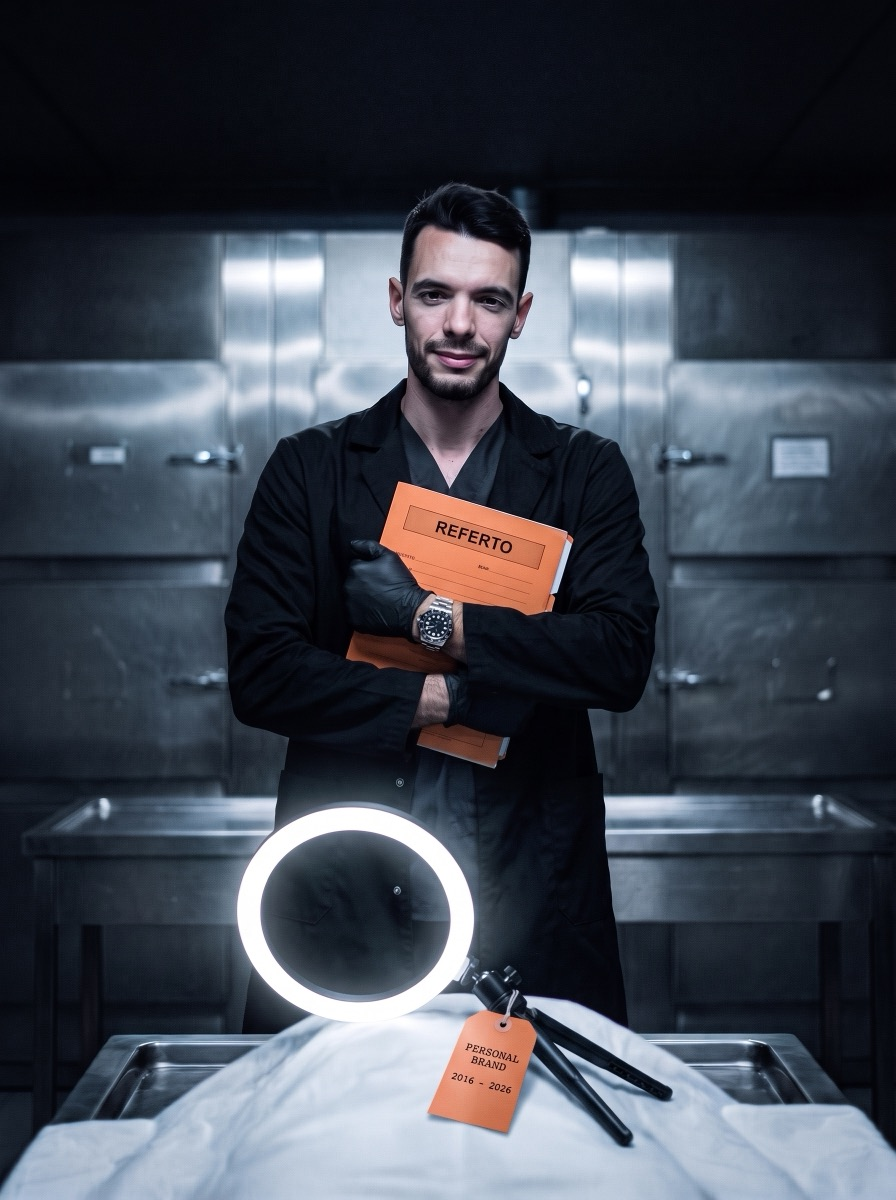
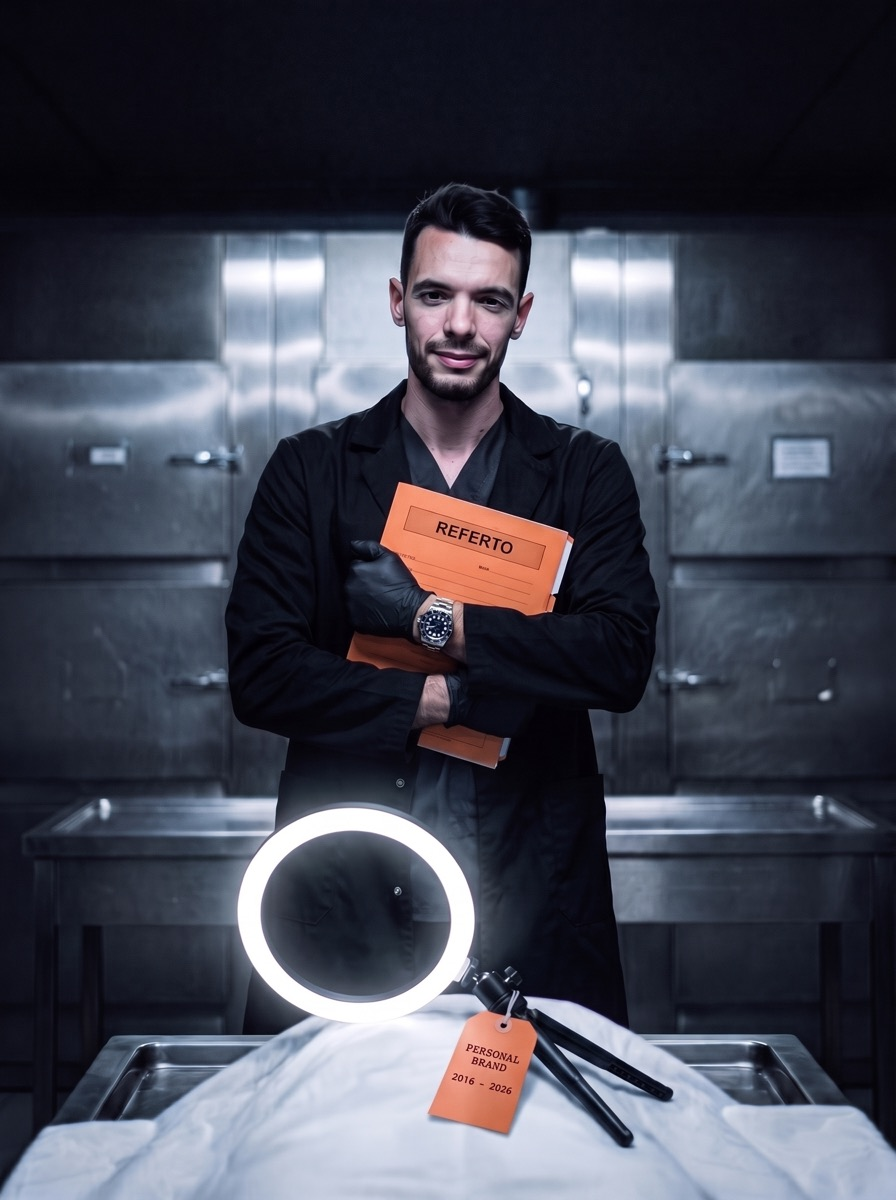
feat: hero con il volto dal Soul di Andrea e monitor cardiaco animato
- stessa scena dell'hero, volto ricostruito dal Soul ID di Andrea (Higgsfield)
- sezione animata sotto l'hero: battito che si spegne, valori che crollano, Rianima

diff --git a/sala-mortuaria/index.html b/sala-mortuaria/index.html
@@ -390,6 +390,46 @@ footer{font-size:12px}
 @media (max-width:760px){.tvideos{grid-template-columns:1fr;gap:12px}.tvoce:last-child:nth-child(odd){width:100%}}
 /* hero mobile: Andrea dentro la prima schermata */
 .hero-photo{display:none}
+/* monitor cardiaco */
+.monitor{padding:clamp(56px,8vw,110px) 0 clamp(40px,6vw,80px);border-top:1px solid var(--line)}
+.monitor .wrap{display:grid;grid-template-columns:1.1fr .9fr;gap:clamp(28px,5vw,72px);align-items:center}
+.mon{border:2px solid var(--acc);border-radius:var(--r);box-shadow:var(--glow);background:#030404;padding:14px}
+.mon-top{display:flex;justify-content:space-between;gap:12px;color:var(--fg-3);font-size:11px;padding:2px 2px 12px}
+.mon-rec{color:#3DF59A;display:inline-flex;align-items:center;gap:8px}
+.mon-rec::before{content:"";width:8px;height:8px;border-radius:50%;background:currentColor;box-shadow:0 0 10px currentColor;animation:blink 1s steps(2) infinite}
+@keyframes blink{50%{opacity:.2}}
+.monitor.dead .mon-rec{color:var(--acc)}
+.mon-screen{position:relative;height:clamp(150px,22vw,220px);border-radius:8px;overflow:hidden;
+  background:linear-gradient(rgba(61,245,154,.05) 1px,transparent 1px) 0 0/100% 22px,linear-gradient(90deg,rgba(61,245,154,.05) 1px,transparent 1px) 0 0/22px 100%,#020605}
+.mon-screen canvas{position:absolute;inset:0;width:100%;height:100%}
+.mon-bpm{position:absolute;top:10px;right:12px;text-align:right;color:#3DF59A;text-shadow:0 0 12px rgba(61,245,154,.6)}
+.mon-bpm .mono{display:block;font-size:10px;color:rgba(61,245,154,.7)}
+.mon-bpm b{font-weight:900;font-style:italic;font-size:clamp(34px,4vw,46px);line-height:1;font-variant-numeric:tabular-nums}
+.monitor.dead .mon-bpm{color:var(--acc);text-shadow:0 0 12px rgba(255,90,20,.6)}
+.monitor.dead .mon-bpm .mono{color:rgba(255,90,20,.7)}
+.mon-flat{position:absolute;left:14px;bottom:10px;opacity:0;transform:translateY(6px);transition:opacity 500ms var(--ease-out),transform 500ms var(--ease-out)}
+.mon-flat .mono{display:block;font-size:10px;color:var(--fg-3)}
+.mon-flat b{font-weight:900;font-style:italic;font-size:26px;color:var(--acc);line-height:1}
+.monitor.dead .mon-flat{opacity:1;transform:none}
+.vitals{list-style:none;display:grid;gap:10px;margin-top:14px}
+.vitals li{display:grid;grid-template-columns:1fr 1.1fr;gap:12px;align-items:center;font-size:13px;color:var(--fg-2)}
+.vitals i{display:block;height:8px;border-radius:4px;background:#14191C;overflow:hidden}
+.vitals em{display:block;height:100%;width:calc(var(--v) * 100%);border-radius:4px;background:#3DF59A;box-shadow:0 0 10px rgba(61,245,154,.5);
+  transition:width 3.4s cubic-bezier(.4,0,.6,1),background-color .8s ease 2.6s}
+.monitor.dying .vitals em{width:3%;background:var(--acc)}
+.mon-copy .h2{max-width:13ch}
+.mon-copy .lede{margin-top:14px}
+.mon-again{margin-top:22px;opacity:0;pointer-events:none;transition:opacity 400ms ease}
+.monitor.dead .mon-again{opacity:1;pointer-events:auto}
+@media (max-width:760px){
+  .monitor .wrap{grid-template-columns:1fr;gap:24px}
+  .monitor{padding:44px 0 40px}
+  .mon{padding:12px}
+  .mon-screen{height:150px}
+  .mon-copy .h2{max-width:none}
+  .mon-again{width:100%}
+}
+@media (prefers-reduced-motion:reduce){.vitals em{transition:none}.mon-rec::before{animation:none}}
 /* ───────── Responsive ───────── */
 @media (max-width:1024px){
   .stats{grid-template-columns:1fr 1fr;row-gap:28px}
@@ -573,6 +613,31 @@ body.locked{overflow:hidden}
 </header>
 
 <main>
+<!-- ════════ MONITOR: il personal brand va in arresto (animato) ════════ -->
+<section class="monitor" data-monitor>
+  <div class="wrap">
+    <div class="mon">
+      <div class="mon-top mono"><span>Sala 3 · Paziente: Personal Brand</span><span class="mon-rec" data-mon-state>In osservazione</span></div>
+      <div class="mon-screen">
+        <canvas data-ecg aria-hidden="true"></canvas>
+        <div class="mon-bpm"><span class="mono">Battiti</span><b data-bpm>72</b></div>
+        <div class="mon-flat" data-flat><span class="mono">Ora del decesso</span><b>2026</b></div>
+      </div>
+      <ul class="vitals">
+        <li><span>Pubblico raggiunto</span><i><em style="--v:.82"></em></i></li>
+        <li><span>Contatti dai contenuti</span><i><em style="--v:.74"></em></i></li>
+        <li><span>Fiducia del pubblico</span><i><em style="--v:.88"></em></i></li>
+        <li><span>Il tuo tempo libero</span><i><em style="--v:.46"></em></i></li>
+      </ul>
+    </div>
+    <div class="mon-copy">
+      <h2 class="h2">Il personal brand classico <span class="acc">è morto.</span></h2>
+      <p class="lede">Non l'hai ucciso tu. Giovedì sera ti mostro cosa l'ha ucciso e cosa lo sostituisce.</p>
+      <button type="button" class="btn ghost mon-again" data-revive>Rianima <span aria-hidden="true">↺</span></button>
+    </div>
+  </div>
+</section>
+
 <!-- ════════ COSA SCOPRIRAI (benefici) ════════ -->
 <section class="learn">
   <div class="wrap">
@@ -903,6 +968,62 @@ tBox.addEventListener("click", e => { const b = e.target.closest(".tvoce"); if (
 vLight.querySelector("[data-vclose]").addEventListener("click", vClose);
 vLight.addEventListener("click", e => { if (e.target === vLight) vClose(); });
 addEventListener("keydown", e => { if (e.key === "Escape" && !vLight.hidden) vClose(); });
+
+/* Monitor cardiaco: battito che rallenta, si appiattisce, "Rianima" lo riparte */
+(function () {
+  const sec = document.querySelector("[data-monitor]"); if (!sec) return;
+  const cv = sec.querySelector("[data-ecg]"), ctx = cv.getContext("2d");
+  const bpmEl = sec.querySelector("[data-bpm]"), stateEl = sec.querySelector("[data-mon-state]");
+  const reduce = matchMedia("(prefers-reduced-motion:reduce)").matches;
+  let W = 0, H = 0, dpr = 1, raf = 0, t0 = 0, lastX = 0, lastY = 0, lastMs = 0, running = false;
+  const DUR = 7000, FADE_FROM = 2600, FLAT_AT = 6000;
+  function size() {
+    dpr = Math.min(devicePixelRatio || 1, 2); W = cv.clientWidth; H = cv.clientHeight;
+    cv.width = W * dpr; cv.height = H * dpr; ctx.setTransform(dpr, 0, 0, dpr, 0, 0);
+  }
+  /* forma di un battito, fase 0..1 */
+  function beat(p) {
+    const g = (c, w, a) => a * Math.exp(-((p - c) ** 2) / (2 * w * w));
+    return g(.18, .03, .12) + g(.33, .008, -.12) + g(.36, .012, 1) + g(.395, .01, -.28) + g(.62, .05, .26);
+  }
+  function amp(ms) { return ms < FADE_FROM ? 1 : ms > FLAT_AT ? 0 : 1 - (ms - FADE_FROM) / (FLAT_AT - FADE_FROM); }
+  function ecg(ms) {
+    const a = amp(ms), period = 820 + (1 - a) * 900;          /* rallenta mentre muore */
+    let acc = 0, k = 0; while (acc + (820 + (1 - amp(acc)) * 900) <= ms && k < 50) { acc += 820 + (1 - amp(acc)) * 900; k++; }
+    return beat((ms - acc) / period) * a;
+  }
+  function frame(now) {
+    const ms = now - t0, speed = W / 2600;                    /* lo schermo si attraversa in 2,6 s */
+    const dead = ms >= FLAT_AT, base = H * .62;
+    ctx.strokeStyle = dead ? "#FF5A14" : "#3DF59A"; ctx.lineWidth = 2.2; ctx.lineJoin = "round";
+    ctx.shadowColor = ctx.strokeStyle; ctx.shadowBlur = 10;
+    ctx.beginPath(); ctx.moveTo(lastX, lastY);
+    /* disegna a passi di 3 ms: i picchi non si perdono anche se il telefono scatta */
+    for (let t = lastMs + 3; t <= ms; t += 3) {
+      const x = (t * speed) % W, y = base - ecg(t) * H * .48;
+      if (x < lastX) { ctx.stroke(); ctx.beginPath(); ctx.moveTo(x, y); } else ctx.lineTo(x, y);
+      lastX = x; lastY = y; lastMs = t;
+    }
+    ctx.stroke();
+    ctx.shadowBlur = 0; ctx.clearRect(lastX + 2, 0, 20, H);   /* la "gomma" davanti alla linea */
+    if (lastX + 22 > W) ctx.clearRect(0, 0, lastX + 22 - W, H);
+    const bpm = Math.round(72 * amp(ms)); bpmEl.textContent = dead ? "0" : bpm;
+    if (ms > FADE_FROM && !sec.classList.contains("dying")) { sec.classList.add("dying"); stateEl.textContent = "Battito irregolare"; }
+    if (dead && !sec.classList.contains("dead")) { sec.classList.add("dead"); stateEl.textContent = "Arresto"; }
+    if (ms < DUR + 2600) raf = requestAnimationFrame(frame); else running = false;
+  }
+  function start() {
+    cancelAnimationFrame(raf); size(); ctx.clearRect(0, 0, W, H);
+    sec.classList.remove("dying", "dead"); stateEl.textContent = "In osservazione";
+    void sec.offsetWidth; lastX = 0; lastY = H * .62; lastMs = 0; running = true;
+    if (reduce) { sec.classList.add("dying", "dead"); stateEl.textContent = "Arresto"; bpmEl.textContent = "0";
+      ctx.strokeStyle = "#FF5A14"; ctx.lineWidth = 2; ctx.beginPath(); ctx.moveTo(0, H * .62); ctx.lineTo(W, H * .62); ctx.stroke(); return; }
+    t0 = performance.now(); raf = requestAnimationFrame(frame);
+  }
+  new IntersectionObserver((es, o) => { if (es[0].isIntersecting) { start(); o.disconnect(); } }, { threshold: .45 }).observe(sec.querySelector(".mon"));
+  sec.querySelector("[data-revive]").addEventListener("click", start);
+  addEventListener("resize", () => { if (!running) { size(); } });
+})();
 
 /* Countdown reale all'evento */
 const cd = document.querySelector("[data-cd]"), left = document.querySelector("[data-bar-left]");
